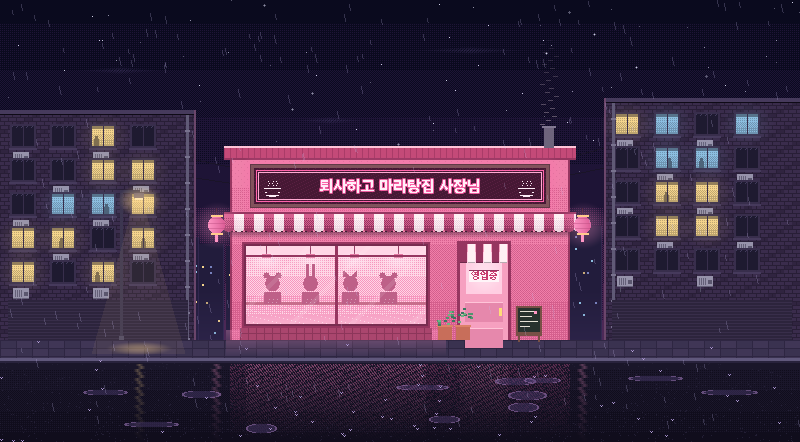
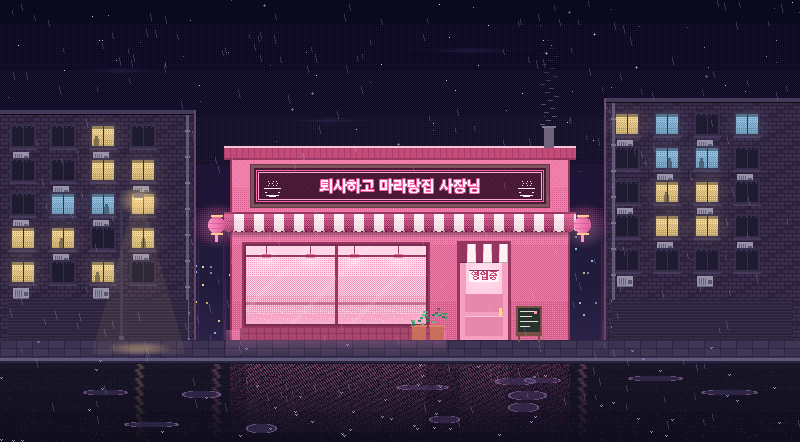
fix: 타이틀 배경 — 가게 가운데로, 가게 안·건물 창 사람 없애기
- 가게를 오른쪽으로 옮긴 뒤 10px 되돌림 (x 64 → 118): 전체 화면에서 너무 왼쪽에 붙어 보이던 문제
- 왼쪽 건물 폭 94로 줄여 등불과의 간격 유지, 전깃줄 시작점도 가게에 맞춤
- 가게 창 안 동물 손님과 그릇을 그리지 않음 (customer()는 남겨 둠)
- 양쪽 건물 창의 사람 그림자 없음
- 문 패널을 문 안쪽으로, 화분을 문과 겹치지 않게 창 모서리 아래로

확인: 1920·1280·1024 창에서 가게와 메뉴 겹침 없음, 간판 잘림 없음
증거: production/qa/evidence/title-screen-evidence.md, title-screen/03~05
Design: design/game-brief.md (화면 배치 — 타이틀 화면)

Changed region(s): [[0.3125, 0.5882, 0.5, 0.7059], [0.5, 0.7059, 0.625, 0.7941]]

diff --git a/tools/art/title_bg.py b/tools/art/title_bg.py
@@ -122,7 +122,7 @@ def brick_wall(x0, x1, top, bottom):
                 px[x, y] = BRICK_DARK if (x // 8 + row) % 5 == 0 else BRICK
 
 
-def window(x, y, w, h, lit):
+def window(x, y, w, h, lit, people=True):
     rect(x - 2, y - 2, x + w + 2, y + h + 2, PLASTER_DARK)  # frame
     rect(x - 3, y + h + 2, x + w + 3, y + h + 4, PLASTER)  # sill
     if lit:
@@ -131,7 +131,7 @@ def window(x, y, w, h, lit):
             for xx in range(x, x + w):
                 px[xx, yy] = dither(xx, yy, c, mix(c, INK, 0.25), (yy - y) / h)
         rect(x, y, x + w, y + 3, mix(c, INK, 0.45))  # curtain top
-        if rng.random() < 0.5:  # someone at home
+        if people and rng.random() < 0.5:  # someone at home
             cx = x + rng.randrange(4, w - 4)
             sil = mix(c, INK, 0.55)
             rect(cx - 2, y + h - 7, cx + 3, y + h, sil)
@@ -159,7 +159,7 @@ def ac_unit(x, y):
     rect(x + 3, y + 11, x + 4, y + 16, (80, 76, 100))
 
 
-def side_building(x0, x1, top, face_right):
+def side_building(x0, x1, top, face_right, people=True):
     brick_wall(x0, x1, top, BASE)
     rect(x0, top, x1, top + 4, PLASTER)  # cornice
     rect(x0, top + 4, x1, top + 5, INK)
@@ -167,7 +167,7 @@ def side_building(x0, x1, top, face_right):
     rect(edge, top, edge + 2, BASE, mix(BRICK, LIGHT, 0.25))  # pink rim light from the shop
     for i, wy in enumerate(range(top + 16, BASE - 60, 34)):
         for j, wx in enumerate(range(x0 + 12, x1 - 30, 40)):
-            window(wx, wy, 22, 20, rng.random() < 0.45)
+            window(wx, wy, 22, 20, rng.random() < 0.45, people)
             if (i + j) % 2 == 0:
                 ac_unit(wx + 1, wy + 26)
     pipe = x1 - 10 if face_right else x0 + 8
@@ -278,29 +278,63 @@ def awning(x0, x1, y):
             glow(x, yy, INK, 0.35 * (1 - (yy - y - 18) / 6))
 
 
-def customer(x, y, kind):
-    sil = (190, 96, 136)
-    rect(x - 8, y + 10, x + 9, y + 22, sil)  # shoulders
-    for yy in range(y - 7, y + 10):
-        for xx in range(x - 7, x + 8):
-            if ((xx - x) / 7.2) ** 2 + ((yy - y - 1) / 7.8) ** 2 <= 1:
-                put(xx, yy, sil)
+def customer(x, y, kind, counter_y):
+    """One diner seen through the window: head, ears and rounded shoulders cut by the counter, an arm reaching
+    for the bowl. Two tones plus a rim of pendant light on the top edges, and a lighter inner ear, so the shapes
+    read as bear / rabbit / cat / dog rather than flat stamps."""
+    fill, edge, rim, inner = (178, 84, 124), (132, 50, 90), (240, 160, 196), (214, 120, 158)
+    shape, ears_in = set(), set()
+
+    def ell(cx, cy, rx, ry, into=shape):
+        for yy in range(int(cy - ry) - 1, int(cy + ry) + 2):
+            for xx in range(int(cx - rx) - 1, int(cx + rx) + 2):
+                if ((xx + 0.5 - cx) / rx) ** 2 + ((yy + 0.5 - cy) / ry) ** 2 <= 1:
+                    into.add((xx, yy))
+
+    dark = set()
+    ell(x, y + 19, 12, 9.5)  # shoulders: a dome joined to the head, not a box
+    ell(x, y + 11, 3.5, 3)  # neck
+    ell(x, y + 1, 7.6, 7.8)  # head
     if kind == 'bear':
         for ex in (x - 6, x + 6):
-            for yy in range(y - 10, y - 4):
-                for xx in range(ex - 3, ex + 4):
-                    if (xx - ex) ** 2 + (yy - y + 7) ** 2 <= 9:
-                        put(xx, yy, sil)
+            ell(ex, y - 6, 3.4, 3.4)
+            ell(ex, y - 6, 1.6, 1.6, ears_in)
     elif kind == 'rabbit':
-        rect(x - 4, y - 18, x - 1, y - 5, sil)
-        rect(x + 2, y - 18, x + 5, y - 5, sil)
+        ell(x - 3, y - 11, 2.3, 7.5)  # left ear upright
+        ell(x - 3, y - 11, 0.9, 5.5, ears_in)
+        ell(x + 4, y - 9, 2.3, 5)  # right ear, folding over at the top
+        ell(x + 7, y - 14, 2.6, 2.2)
+        ell(x + 4, y - 9, 0.9, 3.5, ears_in)
     elif kind == 'cat':
-        for i in range(5):
-            rect(x - 7 + i, y - 11 + i, x - 6 + i + 1, y - 5, sil)
-            rect(x + 6 - i, y - 11 + i, x + 7 - i, y - 5, sil)
-    for sx in range(x - 4, x + 5, 4):  # steam off their bowl
-        for k in range(4):
-            glow(sx + k % 2, y + 8 - k * 3 + 18, (255, 255, 255), 0.35)
+        for sx in (-1, 1):
+            for k in range(8):  # triangular ears
+                for w in range(-(7 - k) // 2, (7 - k) // 2 + 1):
+                    px_ = x + sx * 5 + w
+                    shape.add((px_, y - 4 - k))
+                    if k < 5 and abs(w) <= (4 - k) // 2:
+                        ears_in.add((px_, y - 4 - k))
+    elif kind == 'dog':
+        for sx in (-1, 1):  # floppy ears hanging at the sides, a shade darker than the head
+            ell(x + sx * 7.8, y + 2, 3, 6.2)
+            ell(x + sx * 8.2, y + 3, 2, 5, dark)
+        ell(x, y + 5, 3.8, 2.8)  # muzzle
+    arm_dir = -1 if kind in ('rabbit', 'dog') else 1  # which side their bowl sits
+    shape = {p for p in shape if p[1] < counter_y}
+    for (xx, yy) in shape:
+        exposed_up = (xx, yy - 1) not in shape
+        outline = any((xx + dx, yy + dy) not in shape for dx, dy in ((1, 0), (-1, 0), (0, 1)))
+        c = rim if exposed_up and yy < y + 12 else edge if outline else fill
+        if (xx, yy) in ears_in and not exposed_up:
+            c = inner
+        elif (xx, yy) in dark and not exposed_up:
+            c = edge
+        put(xx, yy, c)
+    bx = x + arm_dir * 12  # their bowl on the counter, steaming
+    rect(bx - 6, counter_y - 4, bx + 7, counter_y - 3, (255, 244, 236))
+    rect(bx - 5, counter_y - 3, bx + 6, counter_y, (236, 96, 90))
+    rect(bx - 4, counter_y - 4, bx + 5, counter_y - 3, (250, 150, 110))
+    for k in range(6):
+        glow(bx - 2 + (k % 3) * 2 + (k // 3), counter_y - 7 - k * 2, (255, 255, 255), 0.45 - k * 0.05)
 
 
 def shop_window(x0, y0, x1, y1):
@@ -314,8 +348,7 @@ def shop_window(x0, y0, x1, y1):
         rect(lx - 4, y0 + 8, lx + 5, y0 + 12, (220, 90, 140))
         pool(lx, y0 + 14, 18, 10, (255, 240, 248), 0.4)
     rect(x0, y1 - 22, x1, y1 - 19, (200, 110, 140))  # counter
-    for i, (cx, kind) in enumerate(((x0 + 26, 'bear'), (x0 + 64, 'rabbit'), (x0 + 104, 'cat'), (x0 + 142, 'bear'))):
-        customer(cx, y1 - 42, kind)
+    # no diners in the window (feedback 2026-09-27: keep the shop interior empty); customer() kept for later use
     for y in range(y1 - 18, y1):  # fogged lower glass
         for x in range(x0, x1):
             glow(x, y, (255, 255, 255), 0.25 * (y - y1 + 18) / 18)
@@ -339,7 +372,7 @@ def shop_window(x0, y0, x1, y1):
 def door(x0, y0, x1):
     rect(x0 - 3, y0 - 3, x1 + 3, BASE, PINK_DEEP)
     rect(x0, y0, x1, BASE, (246, 160, 192))
-    for py in (y0 + 58, y0 + 84):  # panels
+    for py in (y0 + 48, y0 + 72):  # panels, both inside the door (it ends at the sidewalk)
         rect(x0 + 5, py, x1 - 5, py + 20, (230, 136, 172))
         rect(x0 + 5, py, x1 - 5, py + 1, (255, 196, 216))
     rect(x0 + 6, y0 + 8, x1 - 6, y0 + 50, (255, 206, 226))  # door glass
@@ -402,7 +435,7 @@ def shop():
         rect(x, BASE - 12, x + 1, BASE, (140, 54, 90))
     rect(x0 + 10, BASE - 7, x0 + 202, BASE - 6, (140, 54, 90))
     door(x1 - 110, top + 86, x1 - 62)
-    props(x1 - 54, x0 + 208)
+    props(x1 - 54, x0 + 182)  # plants under the window's corner, clear of the door
     pink_lantern(x0 - 14, top + 50)
     pink_lantern(x1 + 12, top + 50)
 
@@ -500,8 +533,11 @@ def rain():
 
 LAYOUTS = {
     # shop x, side buildings (x0, x1, top, facing the shop on its right), wire span, street lamp x
-    'center': dict(shop=230, sides=((0, 196, 110, True), (604, W, 98, False)), wires=(196, 604), lamp=120),
-    'left': dict(shop=64, sides=((620, W, 80, False), (0, 40, 130, True)), wires=(404, 620), lamp=500),
+    'center': dict(shop=230, sides=((0, 196, 110, True, True), (604, W, 98, False, True)), wires=(196, 604), lamp=120),
+    # shop moved right (feedback 2026-09-27: too far left full screen); no figures in the right building's windows
+    # feedback 2026-09-27 (2nd): shop 10px further left, the left building narrowed to keep its gap to the
+    # lantern, and no figures in either building's windows
+    'left': dict(shop=118, sides=((620, W, 80, False, False), (0, 94, 112, True, False)), wires=(460, 620), lamp=548),
 }
 
 
@@ -513,8 +549,8 @@ def build(layout):
     SHOP_X = L['shop']
     sky()
     far_skyline()
-    for x0, x1, top, face_right in L['sides']:
-        side_building(x0, x1, top, face_right)
+    for x0, x1, top, face_right, people in L['sides']:
+        side_building(x0, x1, top, face_right, people)
     wires(*L['wires'])
     street()
     street_lamp(L['lamp'])

diff --git a/production/qa/evidence/title-screen-evidence.md b/production/qa/evidence/title-screen-evidence.md
@@ -8,3 +8,25 @@
 - 확인(1600×749 창): 세이브 없음 → "새 게임" 선택, ↓ 두 번에 설정→새 게임으로 순환, 설정 열기/Esc 닫기, 새 게임 → 오프닝(배경이 게임 배경으로 돌아옴), 세이브 후 새로고침 → "이어서 하기" 선택 → Enter로 상점, 타이틀 버튼으로 복귀. 콘솔 오류 없음.
 - 스크린샷: `title-screen/01-no-save.png`, `02-with-save.png`, `03-settings.png`
 - 테스트: `tests/unit/self-serve/title_menu_test.mjs` 4개 (전체 267 통과)
+
+## 수정 (2026-09-27 오후) — 가게 위치·창 안 손님
+
+피드백: 전체 화면에서 가게가 너무 왼쪽에 붙어 보임.
+
+- 가게를 오른쪽으로 옮김 (`LAYOUTS['left']` shop x 64 → 128, 왼쪽 건물 폭·전깃줄·가로등 위치 맞춤). 오른쪽 건물 창에는 사람 그림자 없음.
+- 창 안 손님 넷을 곰·토끼·고양이·강아지로 알아보게 다시 그림 (귀·어깨 곡선, 가장자리 빛, 카운터 위 그릇과 김). 문 패널을 문 안쪽으로, 화분을 문과 겹치지 않는 창 모서리 아래로.
+- 스크립트 재실행 결과가 `src/img/title-bg.png`와 픽셀 단위로 동일 (결정적 시드).
+- 창 크기별 확인 (배경 cover 기준 가게 오른쪽 끝 ↔ 메뉴 왼쪽 간격 / 간판 위 여백):
+  - 1920×748 — 간격 6px, 간판 위 7px (가로로 긴 창에서 가장 빠듯하지만 겹침·잘림 없음) → `title-screen/03-shop-moved-1920.png`
+  - 1280×748 — 간격 55px, 간판 위 115px → `title-screen/04-shop-moved-1280.png`
+  - 1024×748 — 가게 왼쪽 끝 52px, 간격 45px, 간판 위 115px → `title-screen/05-shop-moved-1024.png`
+- 페이지 스크롤 없음 (1920×748).
+
+## 수정 (2026-09-27 저녁) — 가게 안 비우기
+
+피드백: 가게 안 동물은 없애고, 가게를 10px 왼쪽으로, 왼쪽 건물 창의 사람도 없애기.
+
+- 가게 창 안 손님(곰·토끼·고양이·강아지)과 그릇을 그리지 않음 (`customer()` 함수는 남겨 둠).
+- 가게 x 128 → 118. 왼쪽 등불이 옆 건물에 붙지 않도록 왼쪽 건물 폭 104 → 94, 가게에 이어진 전깃줄 시작 470 → 460. 가로등은 그대로.
+- 양쪽 건물 창 모두 사람 그림자 없음.
+- 확인: 셀프 담기 타이틀(자동 배정 포트)에서 새 배경 표시, 가게와 메뉴 겹침 없음.
